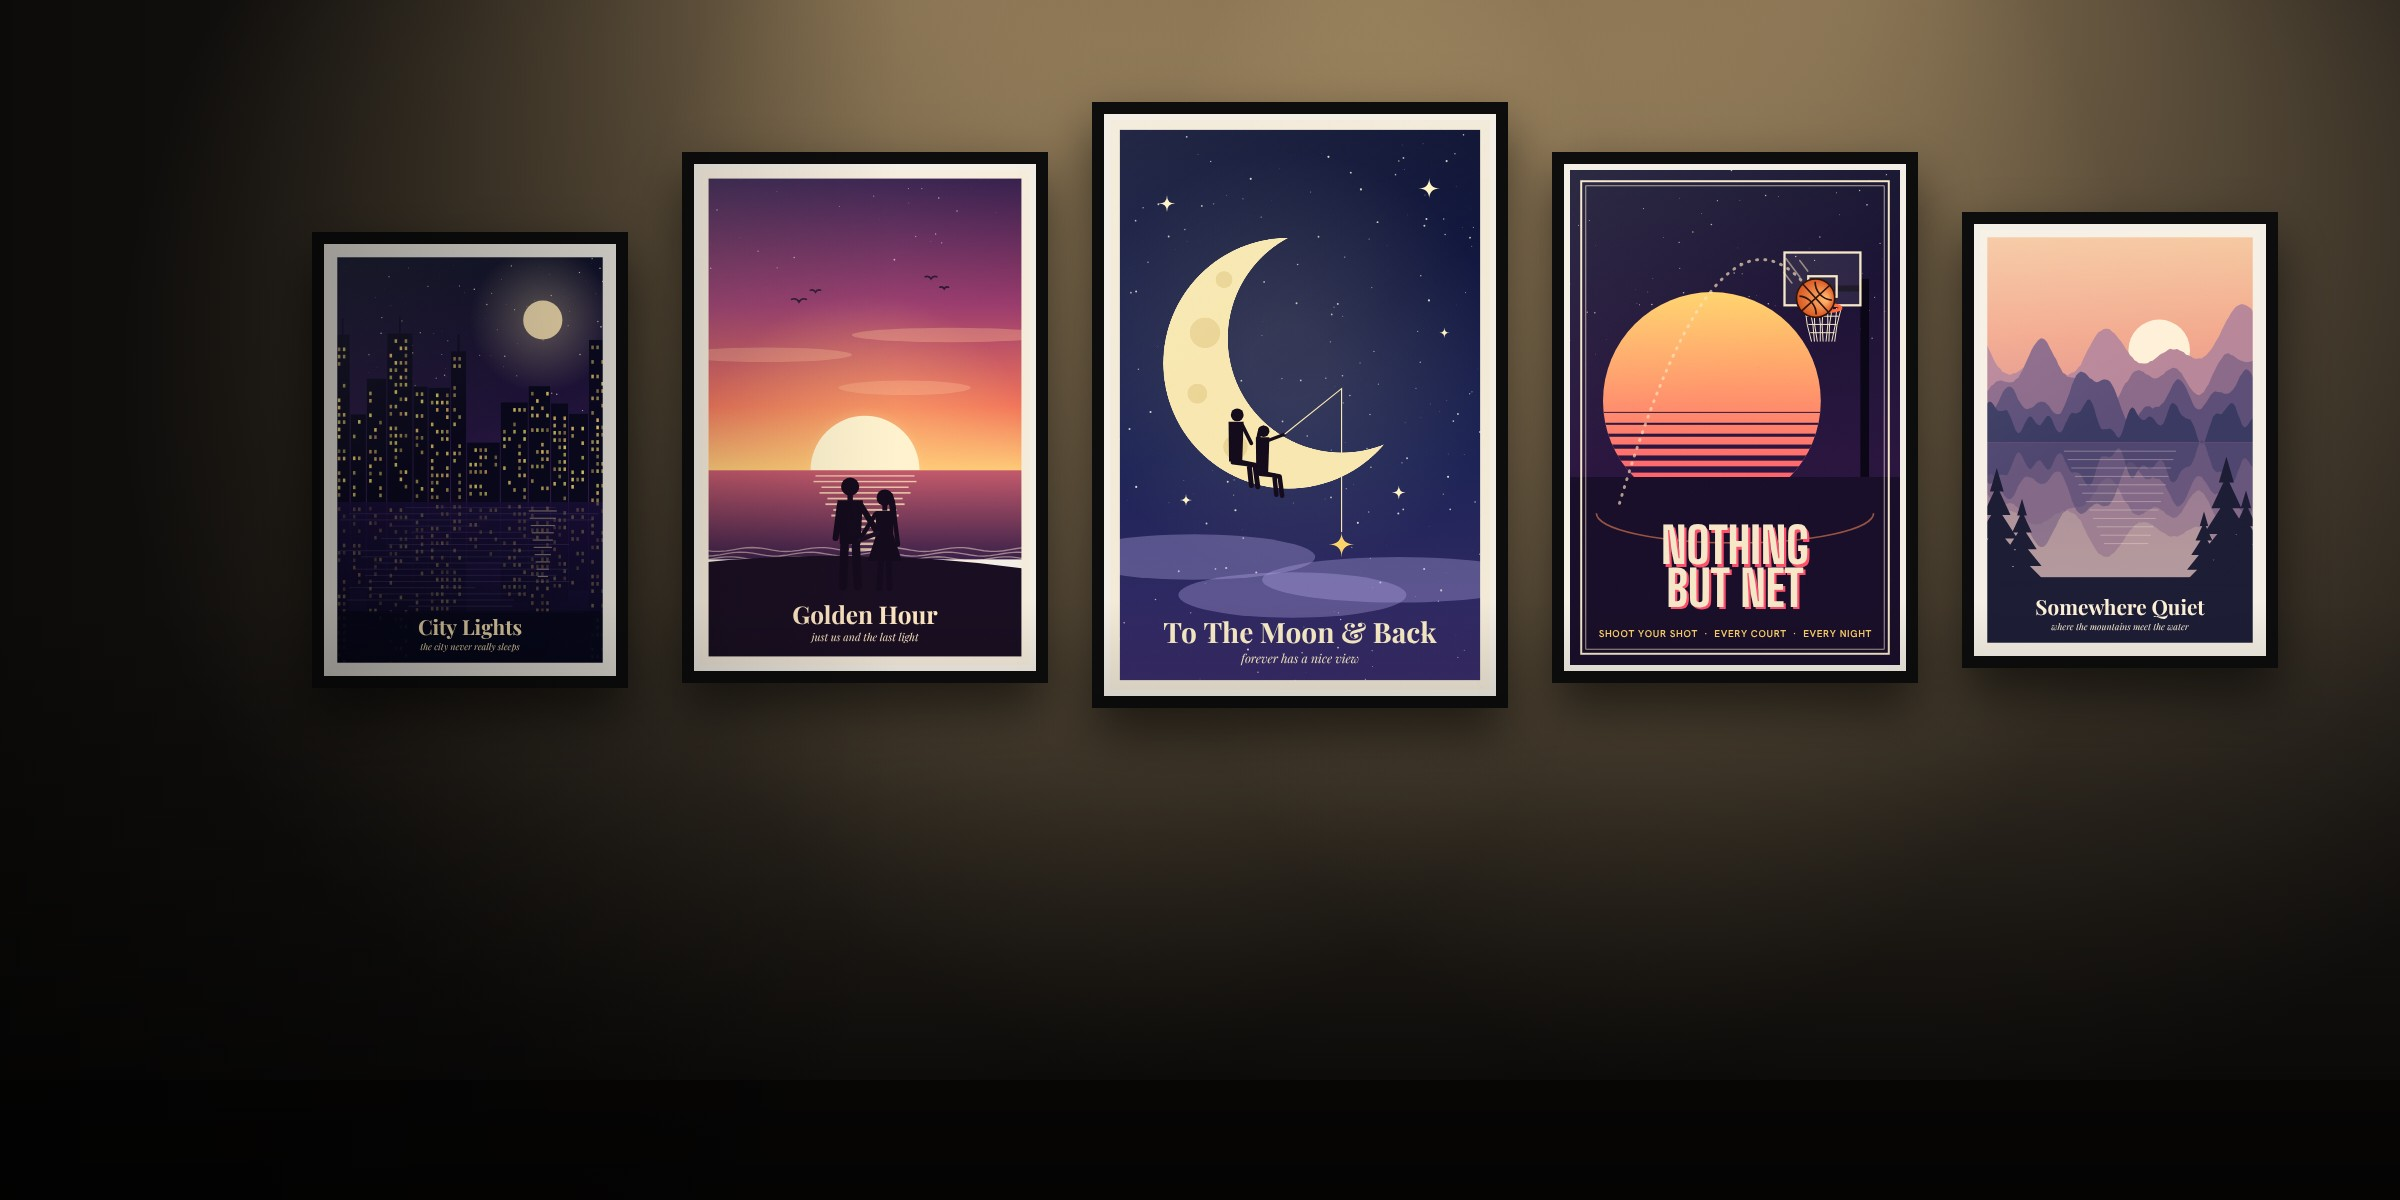
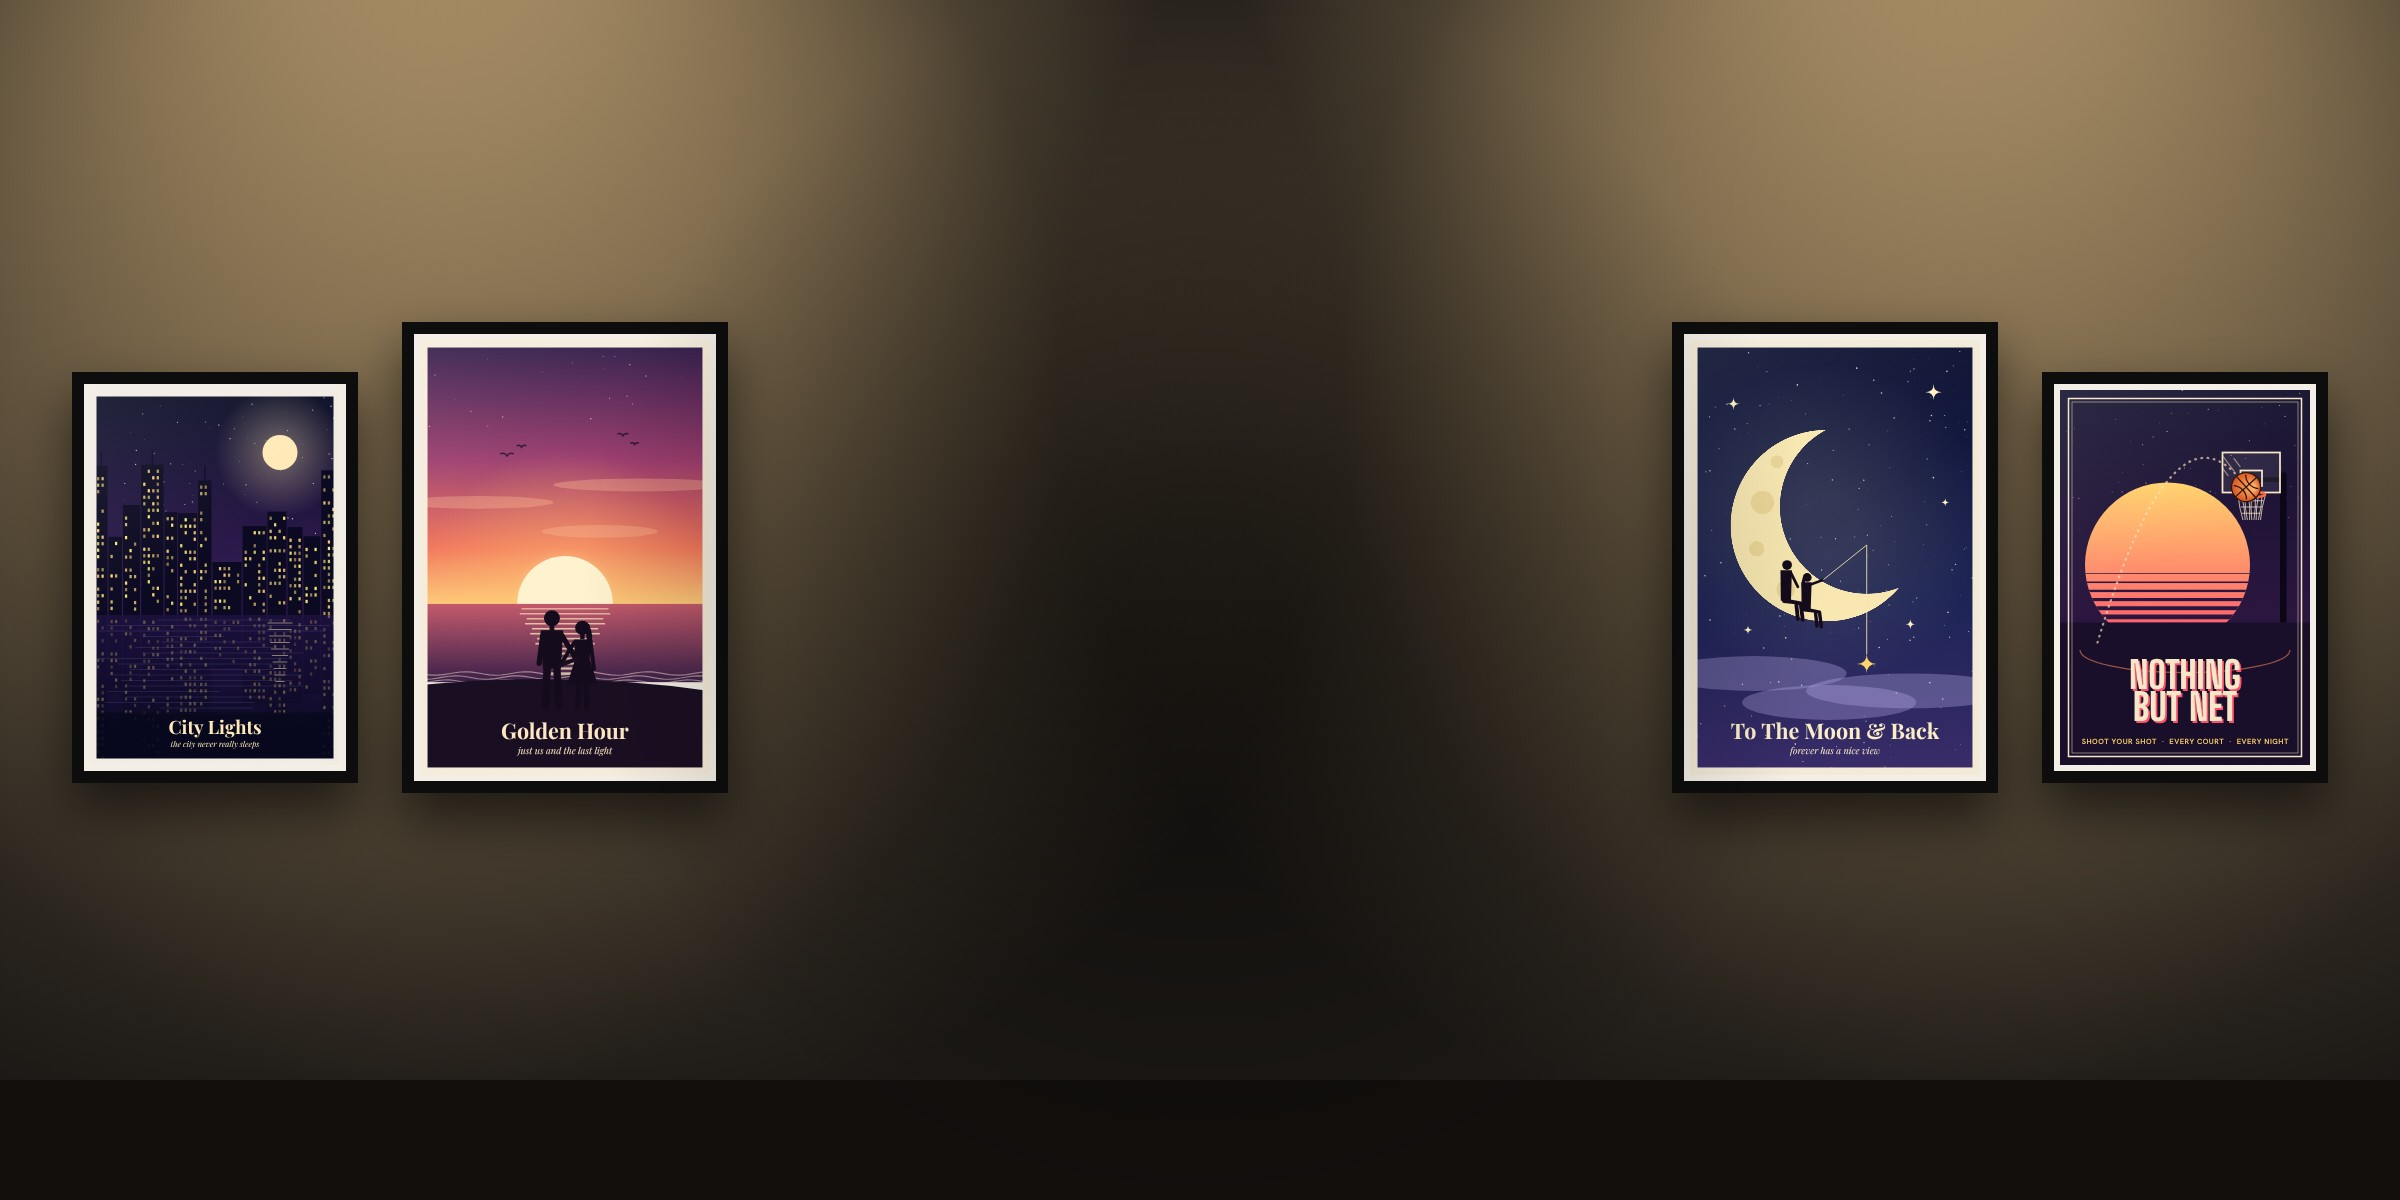
Store hero: posters on the sides
Claude-Session: https://claude.ai/code/session_014WCkJgqUvSahTB2QMTtNBn

diff --git a/studio/art/storefront.html b/studio/art/storefront.html
@@ -15,13 +15,13 @@ function frame(id,x,y,w){const h=w*1.5;g.save();g.shadowColor='rgba(0,0,0,.6)';g
 if(kind==='hero'){c.width=2400;c.height=1200;
  // warm charcoal gallery wall
  g.fillStyle='#1c1916';g.fillRect(0,0,2400,1200);
- for(const [sx] of [[880],[1380],[1880]]){const l=g.createRadialGradient(sx,-80,40,sx,380,760);l.addColorStop(0,'rgba(255,214,150,.42)');l.addColorStop(1,'rgba(255,214,150,0)');g.fillStyle=l;g.fillRect(0,0,2400,1200);}
+ for(const [sx] of [[300],[580],[1820],[2100]]){const l=g.createRadialGradient(sx,-80,40,sx,380,760);l.addColorStop(0,'rgba(255,214,150,.42)');l.addColorStop(1,'rgba(255,214,150,0)');g.fillStyle=l;g.fillRect(0,0,2400,1200);}
  // floor line + bench shadow
  g.fillStyle='#120f0d';g.fillRect(0,1080,2400,120);
- frame('golden',700,170,330);frame('moon',1110,120,380);frame('net',1570,170,330);frame('mountains',1980,230,280);frame('city',330,250,280);
+ frame('city',90,390,250);frame('golden',420,340,290);frame('moon',1690,340,290);frame('net',2060,390,250);
  // darken left-bottom for headline readability
- const v=g.createLinearGradient(0,1200,0,600);v.addColorStop(0,'rgba(0,0,0,.75)');v.addColorStop(1,'rgba(0,0,0,0)');g.fillStyle=v;g.fillRect(0,0,2400,1200);
- const s=g.createLinearGradient(0,0,900,0);s.addColorStop(0,'rgba(0,0,0,.55)');s.addColorStop(1,'rgba(0,0,0,0)');g.fillStyle=s;g.fillRect(0,0,900,1200);
+ const v=g.createRadialGradient(1200,600,80,1200,600,620);v.addColorStop(0,'rgba(0,0,0,.45)');v.addColorStop(1,'rgba(0,0,0,0)');g.fillStyle=v;g.fillRect(0,0,2400,1200);
+
 }
 if(kind==='logo'){c.width=900;c.height=300;
  // drip mark
